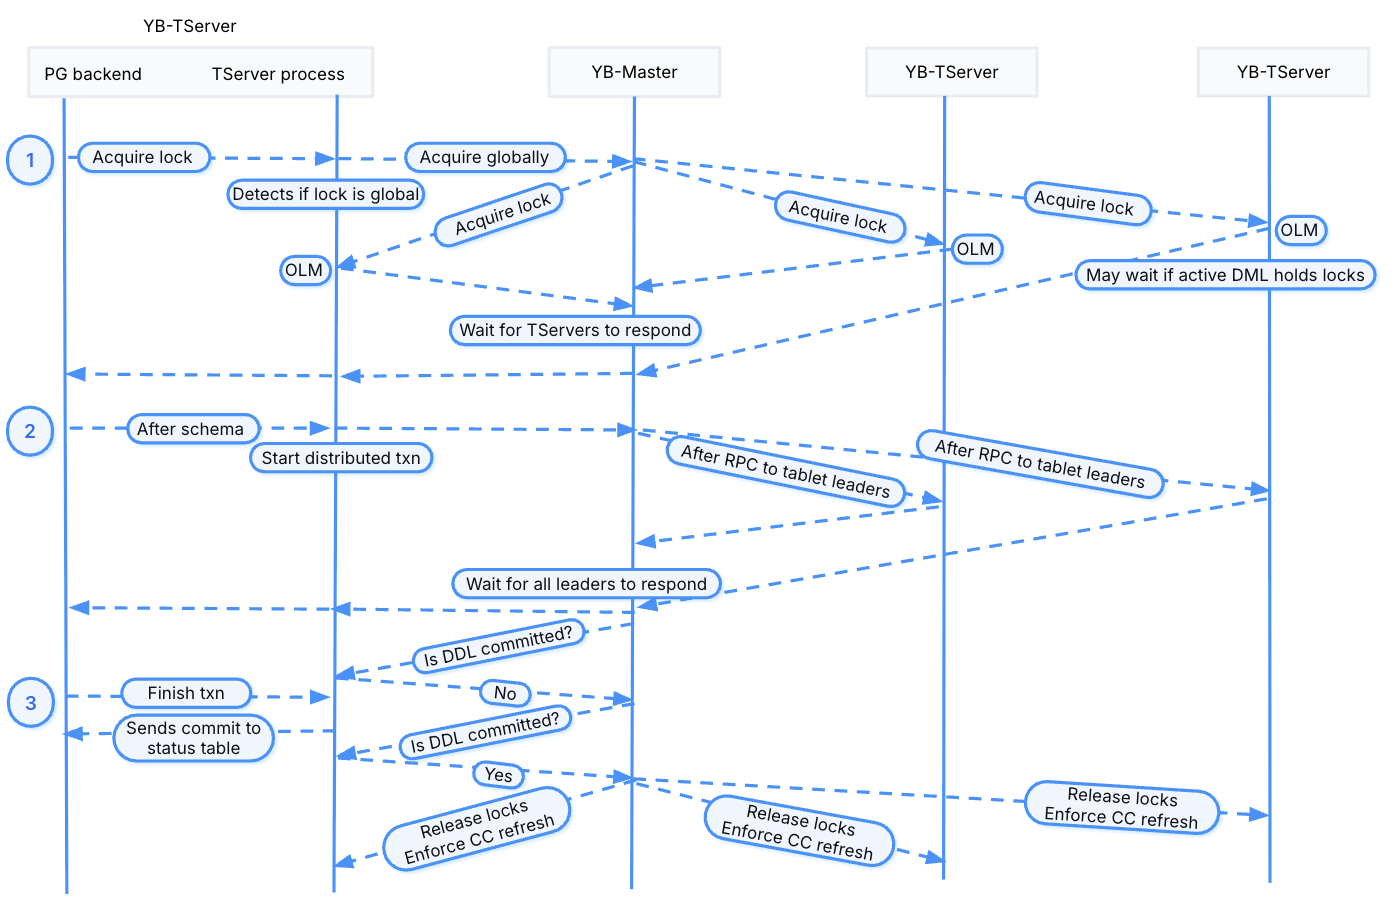
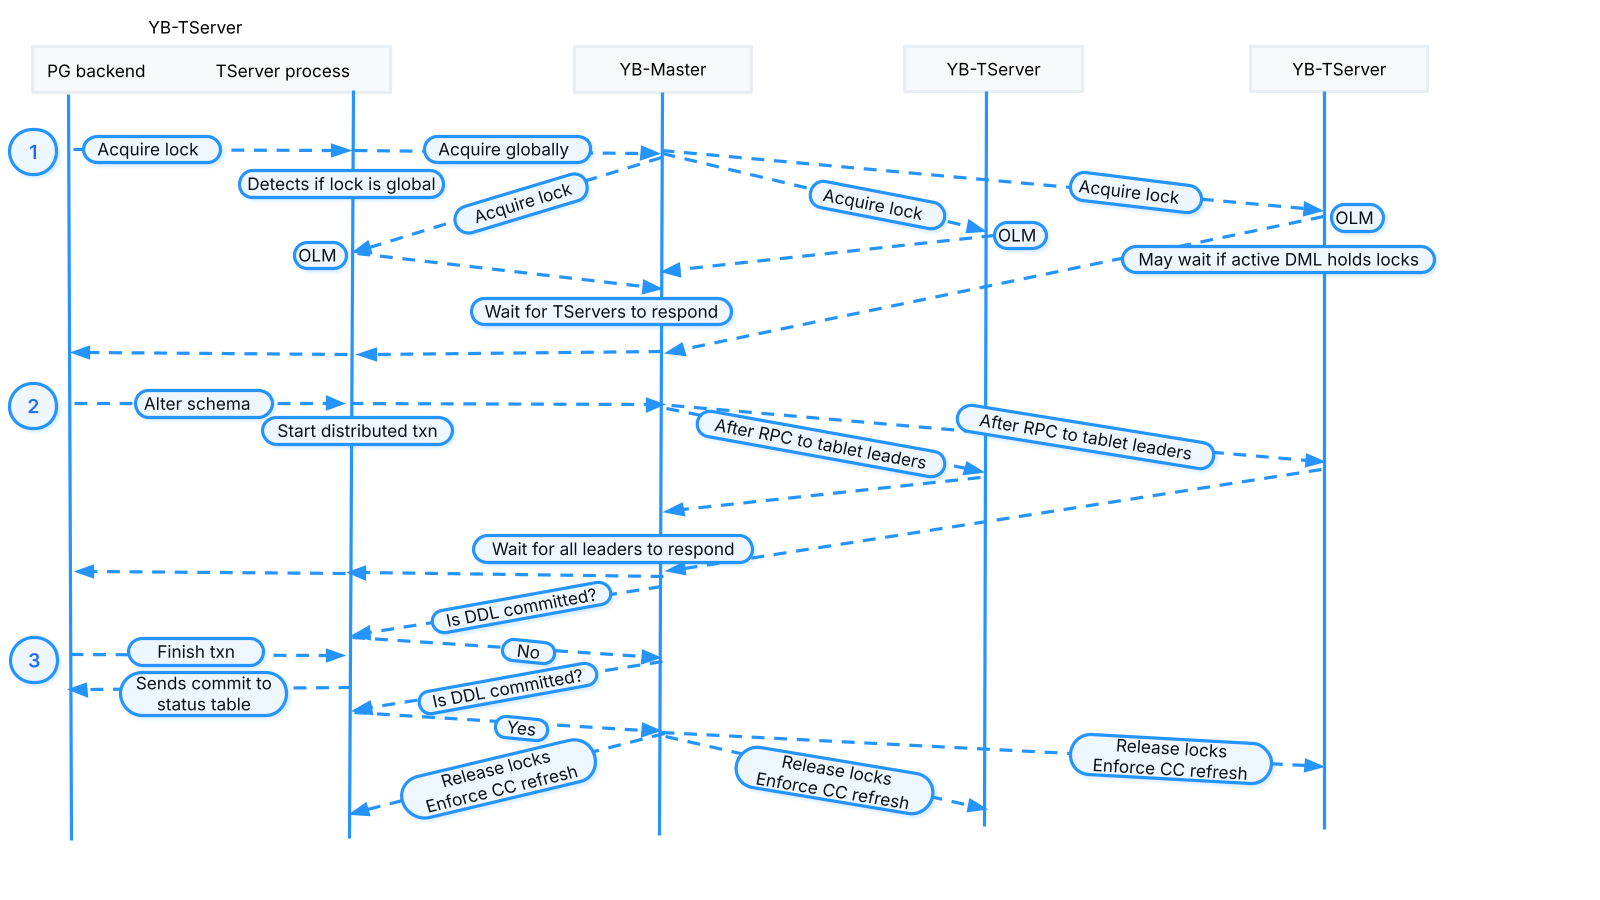
[DOC-1260] Fix image for Table-level locks and other edits (#31276)

diff --git a/docs/content/stable/yugabyte-cloud/cloud-basics/create-clusters-topology.md b/docs/content/stable/yugabyte-cloud/cloud-basics/create-clusters-topology.md
@@ -30,7 +30,7 @@ For more information on replication and deployment strategies for YugabyteDB, se
 
 - [DocDB replication layer](../../../architecture/docdb-replication/)
 - [Multi-region deployments](../../../explore/multi-region-deployments/)
-- [Engineering Around the Physics of Latency](https://vimeo.com/548171949)
+- [Engineering Around the Physics of Latency](https://www.youtube.com/watch?v=LyOU9v7yXLE)
 - [9 Techniques to Build Cloud-Native, Geo-Distributed SQL Apps with Low Latency](https://www.yugabyte.com/blog/9-techniques-to-build-cloud-native-geo-distributed-sql-apps-with-low-latency/)
 - [Geo-partitioning of Data in YugabyteDB](https://www.yugabyte.com/blog/geo-partitioning-of-data-in-yugabytedb/)
 

diff --git a/docs/content/stable/reference/docs-mcp-server.md b/docs/content/stable/reference/docs-mcp-server.md
@@ -30,7 +30,7 @@ To add the Yugabyte Docs MCP server, do the following:
 
     {{< tabpane text=true >}}
 
-{{% tab header="Cursor" lang="cursor" %}}
+{{% tab header="Cursor IDE" lang="cursor" %}}
 
 The **Add to Cursor** option opens Cursor to your **Cursor Settings**.
 
